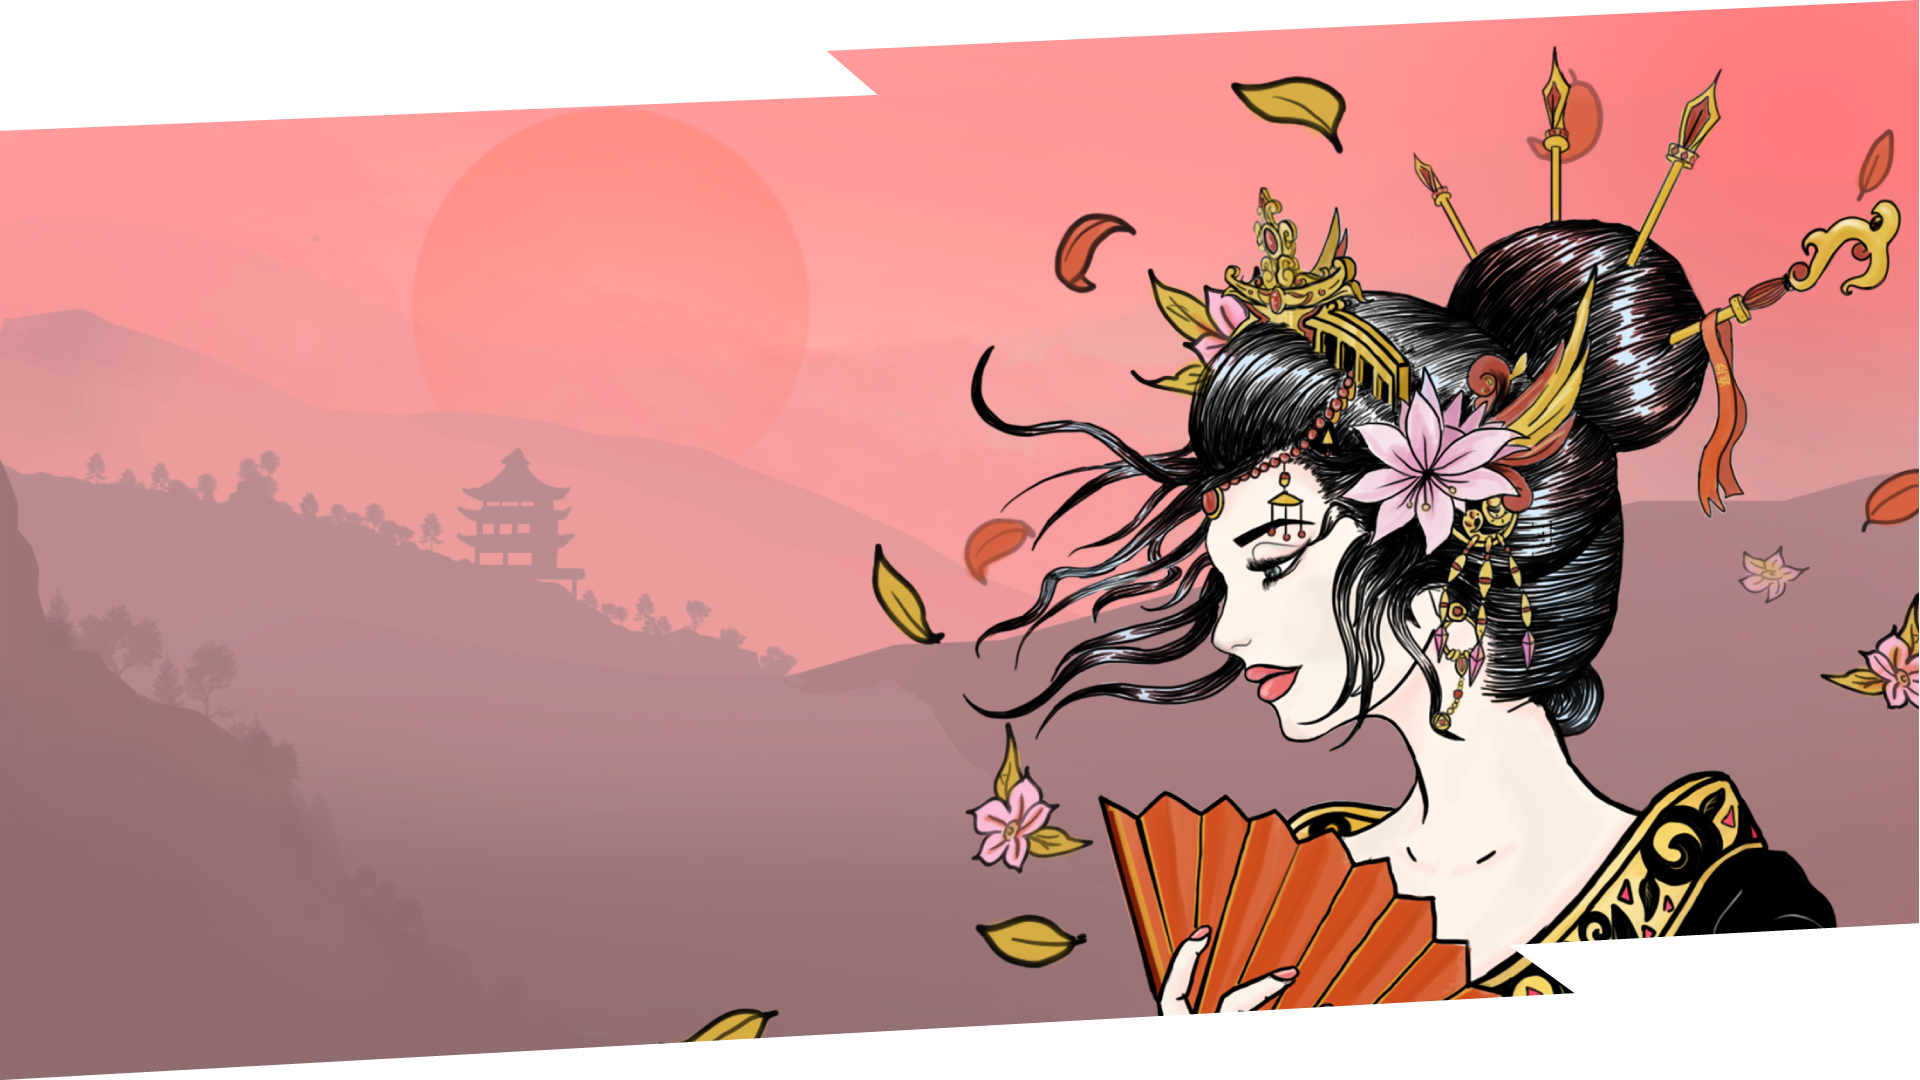
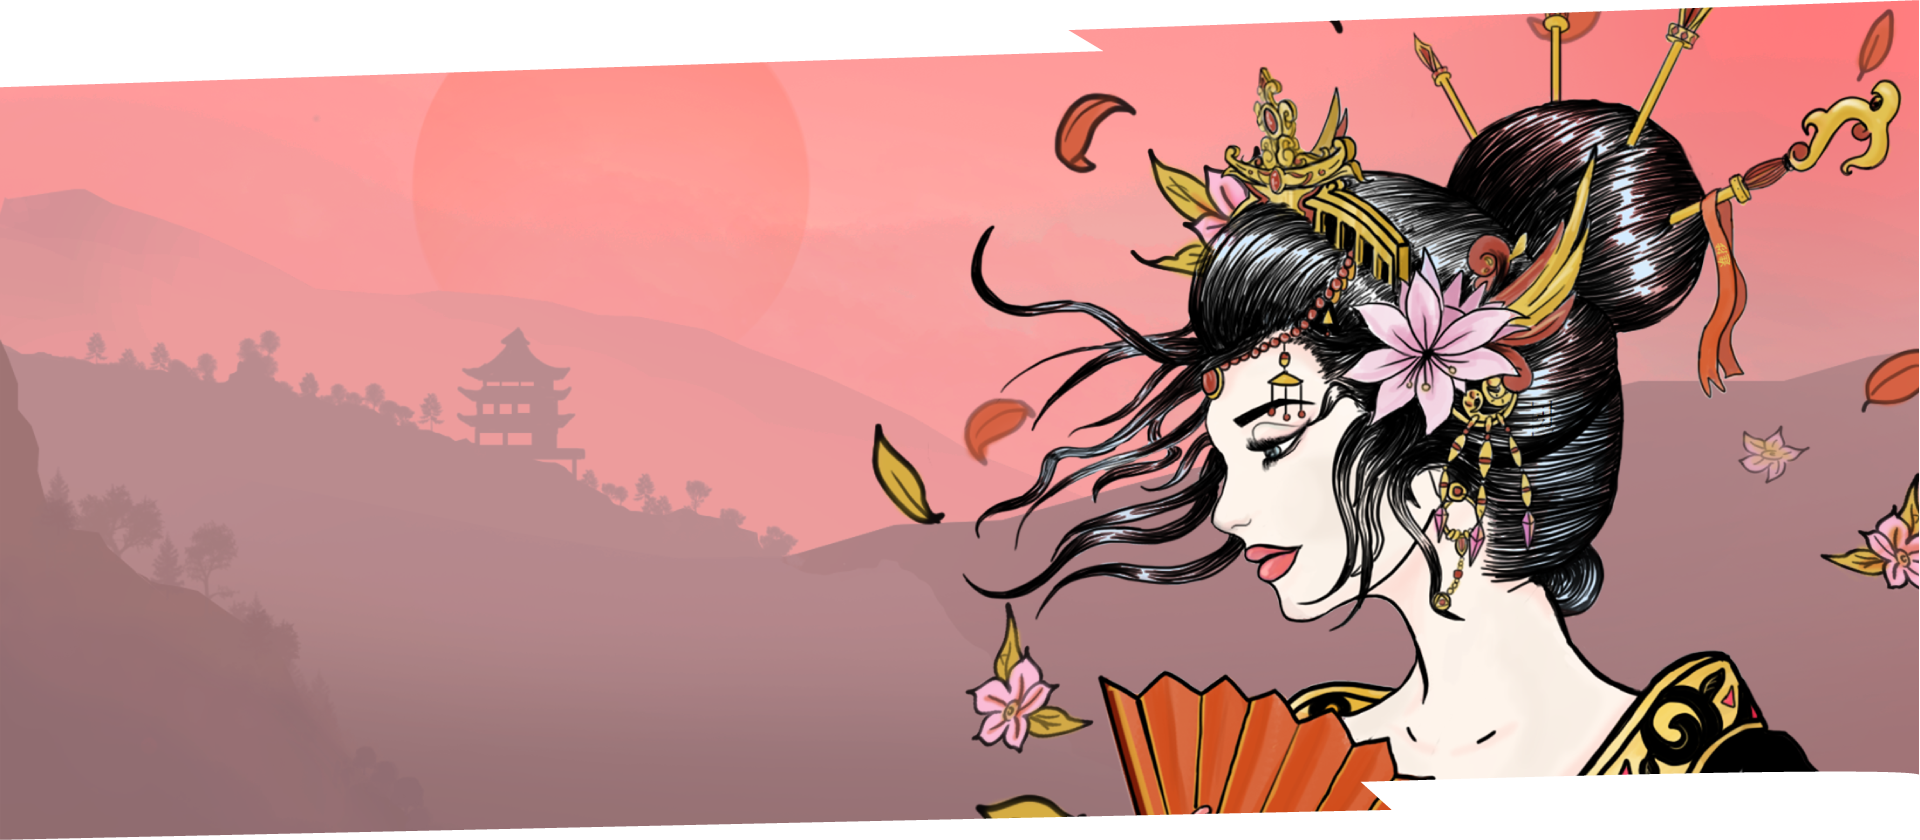
.

diff --git a/src/App.js b/src/App.js
@@ -4,6 +4,8 @@ import { library } from "@fortawesome/fontawesome-svg-core";
 import { faFolder } from "@fortawesome/pro-regular-svg-icons";
 import { faHome } from "@fortawesome/pro-solid-svg-icons";
 import Navbar from "./components/navbar/navbar";
+import Header from "./components/header/header";
+import EmptySpace from "./components/emptySpace";
 
 library.add(faFolder, faHome);
 
@@ -12,6 +14,8 @@ class App extends Component {
     return (
       <div>
         <Navbar />
+        <Header />
+        <EmptySpace />
       </div>
     );
   }

diff --git a/src/components/header/header.jsx b/src/components/header/header.jsx
@@ -1,0 +1,22 @@
+import React, { Component } from "react";
+import "./header.css";
+
+class Header extends Component {
+  state = {};
+  render() {
+    return (
+      <div className="container-fluid">
+        <div className="jumbotron jumbotron-fluid header-section">
+          <div className="row">
+            <div className="col-md-5">
+              <h1>Hello</h1>
+            </div>
+            <div className="col-md-7" />
+          </div>
+        </div>
+      </div>
+    );
+  }
+}
+
+export default Header;

diff --git a/src/components/emptySpace.jsx b/src/components/emptySpace.jsx
@@ -1,0 +1,16 @@
+import React, { Component } from "react";
+
+class EmptySpace extends Component {
+  state = {};
+  render() {
+    return (
+      <div
+        style={{
+          height: 500
+        }}
+      />
+    );
+  }
+}
+
+export default EmptySpace;

diff --git a/src/components/header/header.css b/src/components/header/header.css
@@ -1,0 +1,7 @@
+.header-section {
+  background-image: url(../../img/header-main.png);
+  background-size: auto;
+  background-repeat: no-repeat;
+  background-color: #fff !important;
+  height: 70vh;
+}
